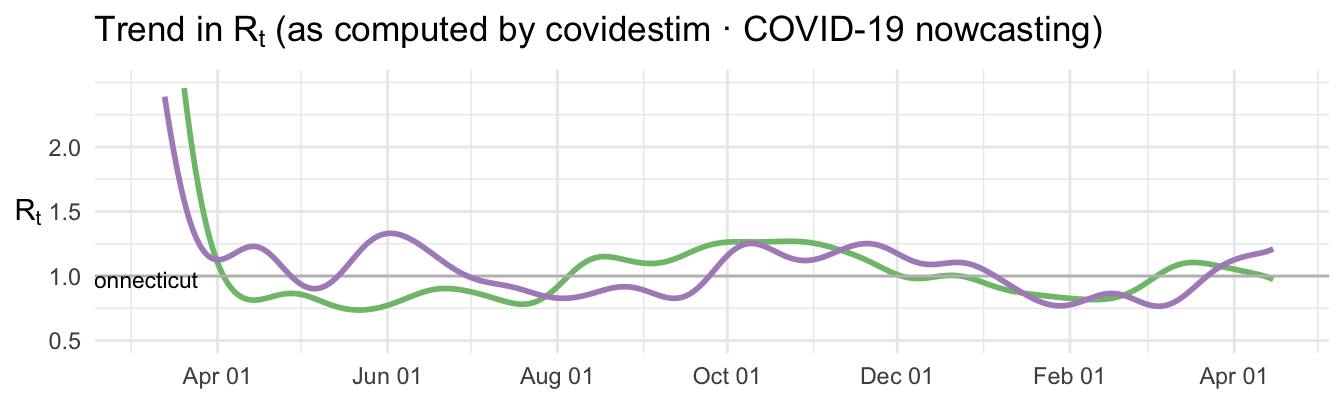
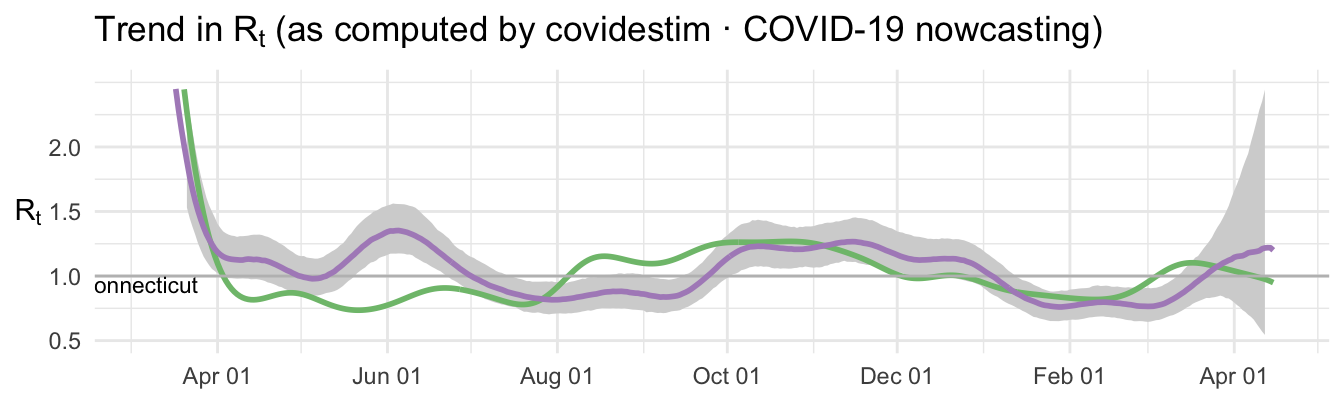
correct Rt confidence interval to be 95% rather than 80%

Changed region(s): [[0.0938, 0.2084, 0.9688, 0.804], [0.0625, 0.6849, 0.1562, 0.7444], [0.4375, 0.6253, 0.4688, 0.6551]]

diff --git a/content/post/2020-06-22-tracking-covid-19-in-connecticut/index.en.html b/content/post/2020-06-22-tracking-covid-19-in-connecticut/index.en.html
@@ -70,7 +70,7 @@ editor_options:
   font-family: -apple-system, BlinkMacSystemFont, 'Segoe UI', Roboto, Oxygen, Ubuntu, Cantarell, 'Helvetica Neue', 'Fira Sans', 'Droid Sans', Arial, sans-serif;
 }
 
-#mqccgwglqb .gt_table {
+#hawphhrfyf .gt_table {
   display: table;
   border-collapse: collapse;
   margin-left: auto;
@@ -95,7 +95,7 @@ editor_options:
   border-left-color: #D3D3D3;
 }
 
-#mqccgwglqb .gt_heading {
+#hawphhrfyf .gt_heading {
   background-color: #FFFFFF;
   text-align: center;
   border-bottom-color: #FFFFFF;
@@ -107,7 +107,7 @@ editor_options:
   border-right-color: #D3D3D3;
 }
 
-#mqccgwglqb .gt_title {
+#hawphhrfyf .gt_title {
   color: #333333;
   font-size: 125%;
   font-weight: initial;
@@ -117,7 +117,7 @@ editor_options:
   border-bottom-width: 0;
 }
 
-#mqccgwglqb .gt_subtitle {
+#hawphhrfyf .gt_subtitle {
   color: #333333;
   font-size: 85%;
   font-weight: initial;
@@ -127,13 +127,13 @@ editor_options:
   border-top-width: 0;
 }
 
-#mqccgwglqb .gt_bottom_border {
+#hawphhrfyf .gt_bottom_border {
   border-bottom-style: solid;
   border-bottom-width: 2px;
   border-bottom-color: #D3D3D3;
 }
 
-#mqccgwglqb .gt_col_headings {
+#hawphhrfyf .gt_col_headings {
   border-top-style: solid;
   border-top-width: 2px;
   border-top-color: #D3D3D3;
@@ -148,7 +148,7 @@ editor_options:
   border-right-color: #D3D3D3;
 }
 
-#mqccgwglqb .gt_col_heading {
+#hawphhrfyf .gt_col_heading {
   color: #333333;
   background-color: #FFFFFF;
   font-size: 100%;
@@ -168,7 +168,7 @@ editor_options:
   overflow-x: hidden;
 }
 
-#mqccgwglqb .gt_column_spanner_outer {
+#hawphhrfyf .gt_column_spanner_outer {
   color: #333333;
   background-color: #FFFFFF;
   font-size: 100%;
@@ -180,15 +180,15 @@ editor_options:
   padding-right: 4px;
 }
 
-#mqccgwglqb .gt_column_spanner_outer:first-child {
+#hawphhrfyf .gt_column_spanner_outer:first-child {
   padding-left: 0;
 }
 
-#mqccgwglqb .gt_column_spanner_outer:last-child {
+#hawphhrfyf .gt_column_spanner_outer:last-child {
   padding-right: 0;
 }
 
-#mqccgwglqb .gt_column_spanner {
+#hawphhrfyf .gt_column_spanner {
   border-bottom-style: solid;
   border-bottom-width: 2px;
   border-bottom-color: #D3D3D3;
@@ -200,7 +200,7 @@ editor_options:
   width: 100%;
 }
 
-#mqccgwglqb .gt_group_heading {
+#hawphhrfyf .gt_group_heading {
   padding: 8px;
   color: #333333;
   background-color: #FFFFFF;
@@ -222,7 +222,7 @@ editor_options:
   vertical-align: middle;
 }
 
-#mqccgwglqb .gt_empty_group_heading {
+#hawphhrfyf .gt_empty_group_heading {
   padding: 0.5px;
   color: #333333;
   background-color: #FFFFFF;
@@ -237,15 +237,15 @@ editor_options:
   vertical-align: middle;
 }
 
-#mqccgwglqb .gt_from_md > :first-child {
+#hawphhrfyf .gt_from_md > :first-child {
   margin-top: 0;
 }
 
-#mqccgwglqb .gt_from_md > :last-child {
+#hawphhrfyf .gt_from_md > :last-child {
   margin-bottom: 0;
 }
 
-#mqccgwglqb .gt_row {
+#hawphhrfyf .gt_row {
   padding-top: 8px;
   padding-bottom: 8px;
   padding-left: 5px;
@@ -264,7 +264,7 @@ editor_options:
   overflow-x: hidden;
 }
 
-#mqccgwglqb .gt_stub {
+#hawphhrfyf .gt_stub {
   color: #333333;
   background-color: #FFFFFF;
   font-size: 100%;
@@ -276,7 +276,7 @@ editor_options:
   padding-left: 12px;
 }
 
-#mqccgwglqb .gt_summary_row {
+#hawphhrfyf .gt_summary_row {
   color: #333333;
   background-color: #FFFFFF;
   text-transform: inherit;
@@ -286,7 +286,7 @@ editor_options:
   padding-right: 5px;
 }
 
-#mqccgwglqb .gt_first_summary_row {
+#hawphhrfyf .gt_first_summary_row {
   padding-top: 8px;
   padding-bottom: 8px;
   padding-left: 5px;
@@ -296,7 +296,7 @@ editor_options:
   border-top-color: #D3D3D3;
 }
 
-#mqccgwglqb .gt_grand_summary_row {
+#hawphhrfyf .gt_grand_summary_row {
   color: #333333;
   background-color: #FFFFFF;
   text-transform: inherit;
@@ -306,7 +306,7 @@ editor_options:
   padding-right: 5px;
 }
 
-#mqccgwglqb .gt_first_grand_summary_row {
+#hawphhrfyf .gt_first_grand_summary_row {
   padding-top: 8px;
   padding-bottom: 8px;
   padding-left: 5px;
@@ -316,11 +316,11 @@ editor_options:
   border-top-color: #D3D3D3;
 }
 
-#mqccgwglqb .gt_striped {
+#hawphhrfyf .gt_striped {
   background-color: rgba(128, 128, 128, 0.05);
 }
 
-#mqccgwglqb .gt_table_body {
+#hawphhrfyf .gt_table_body {
   border-top-style: solid;
   border-top-width: 2px;
   border-top-color: #D3D3D3;
@@ -329,7 +329,7 @@ editor_options:
   border-bottom-color: #D3D3D3;
 }
 
-#mqccgwglqb .gt_footnotes {
+#hawphhrfyf .gt_footnotes {
   color: #333333;
   background-color: #FFFFFF;
   border-bottom-style: none;
@@ -343,13 +343,13 @@ editor_options:
   border-right-color: #D3D3D3;
 }
 
-#mqccgwglqb .gt_footnote {
+#hawphhrfyf .gt_footnote {
   margin: 0px;
   font-size: 90%;
   padding: 4px;
 }
 
-#mqccgwglqb .gt_sourcenotes {
+#hawphhrfyf .gt_sourcenotes {
   color: #333333;
   background-color: #FFFFFF;
   border-bottom-style: none;
@@ -363,46 +363,46 @@ editor_options:
   border-right-color: #D3D3D3;
 }
 
-#mqccgwglqb .gt_sourcenote {
+#hawphhrfyf .gt_sourcenote {
   font-size: 90%;
   padding: 4px;
 }
 
-#mqccgwglqb .gt_left {
+#hawphhrfyf .gt_left {
   text-align: left;
 }
 
-#mqccgwglqb .gt_center {
+#hawphhrfyf .gt_center {
   text-align: center;
 }
 
-#mqccgwglqb .gt_right {
+#hawphhrfyf .gt_right {
   text-align: right;
   font-variant-numeric: tabular-nums;
 }
 
-#mqccgwglqb .gt_font_normal {
+#hawphhrfyf .gt_font_normal {
   font-weight: normal;
 }
 
-#mqccgwglqb .gt_font_bold {
+#hawphhrfyf .gt_font_bold {
   font-weight: bold;
 }
 
-#mqccgwglqb .gt_font_italic {
+#hawphhrfyf .gt_font_italic {
   font-style: italic;
 }
 
-#mqccgwglqb .gt_super {
+#hawphhrfyf .gt_super {
   font-size: 65%;
 }
 
-#mqccgwglqb .gt_footnote_marks {
+#hawphhrfyf .gt_footnote_marks {
   font-style: italic;
   font-size: 65%;
 }
 </style>
-<div id="mqccgwglqb" style="overflow-x:auto;overflow-y:auto;width:auto;height:auto;"><table class="gt_table">
+<div id="hawphhrfyf" style="overflow-x:auto;overflow-y:auto;width:auto;height:auto;"><table class="gt_table">
   <thead class="gt_header">
     <tr>
       <th colspan="4" class="gt_heading gt_title gt_font_normal" style>Latest Data on Covid-19 in Connecticut</th>
@@ -576,10 +576,10 @@ has lately shown <a href="https://www.fox10phoenix.com/news/arizona-medical-expe
 outbreak</a>.
 The goal in Connecticut and in the entire New York City area is to keep
 R<sub>t</sub> well under 1. As of
-04/15/2021 R<sub>t</sub> is
-0.97.
+04/16/2021 R<sub>t</sub> is
+0.94.
 On the other hand, in Arizona R<sub>t</sub> is about
-1.21.</p>
+1.2.</p>
 </div>
 </div>
 <div id="comparisons-with-other-states" class="section level2">
@@ -602,7 +602,7 @@ Figure 5: Estimate of R<sub>t</sub> by State
 </div>
 <p><br/> R is estimated from the state data and the gray area around the
 line indicates the statistical uncertainty of the estimate showing an
-80% confidence interval. Note that this map shows only whether
+95% confidence interval. Note that this map shows only whether
 transmission seems to be growing or shrinking. How concerned one should
 be about the epidemic in a particular state also depends on the
 prevalence of cases.</p>
